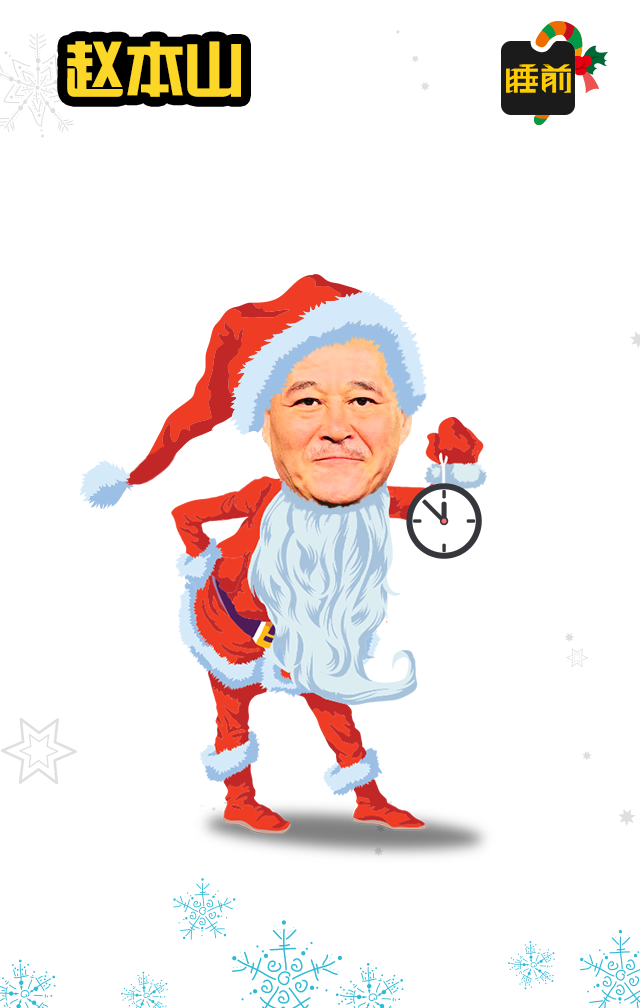
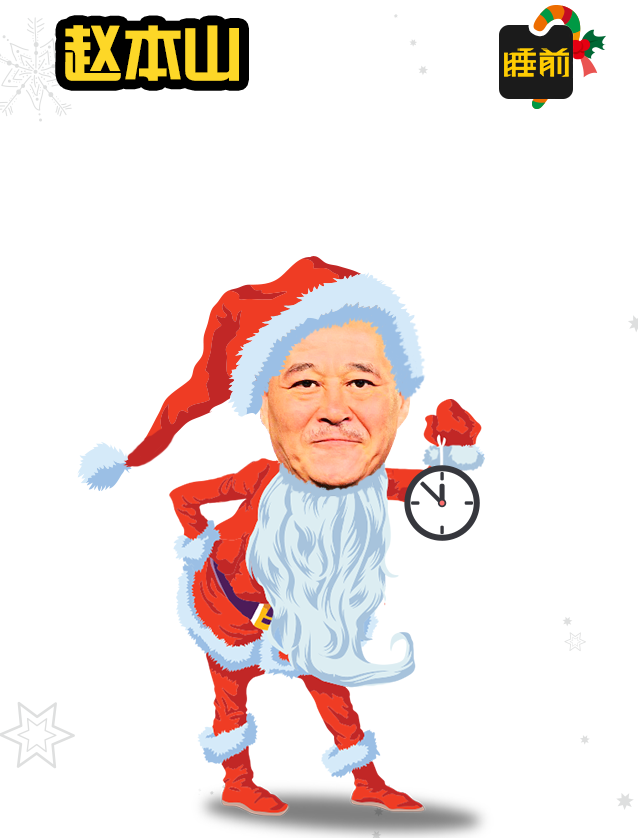
top btm separated

diff --git a/res/js/main.js b/res/js/main.js
@@ -225,14 +225,6 @@
 			var num = hash.substr(1,1);
 			$bg.attr('src','../res/img/2/'+num+'.png');
 			
-			if($bg.height()<$('.container').height()){
-				$bg.css({
-					position:'fixed',
-					bottom:0
-				});
-			}			
-			
-			
 		});
 	}
 	window.bedApp = bedApp;

diff --git a/res/css/result.less b/res/css/result.less
@@ -15,6 +15,11 @@
             position: static;
             width: 100%;
         }
+        img.snow{
+            position: fixed;
+            bottom: 0;
+            width: 100%;
+        }
     }
 
 }

diff --git a/html/result.html b/html/result.html
@@ -24,6 +24,7 @@
 <body class="result">
 <div class="container">
 	<img class="bg" />
+	<img src="../res/img/2/snow.png"  class="snow" />
 </div>
 
 </body>
